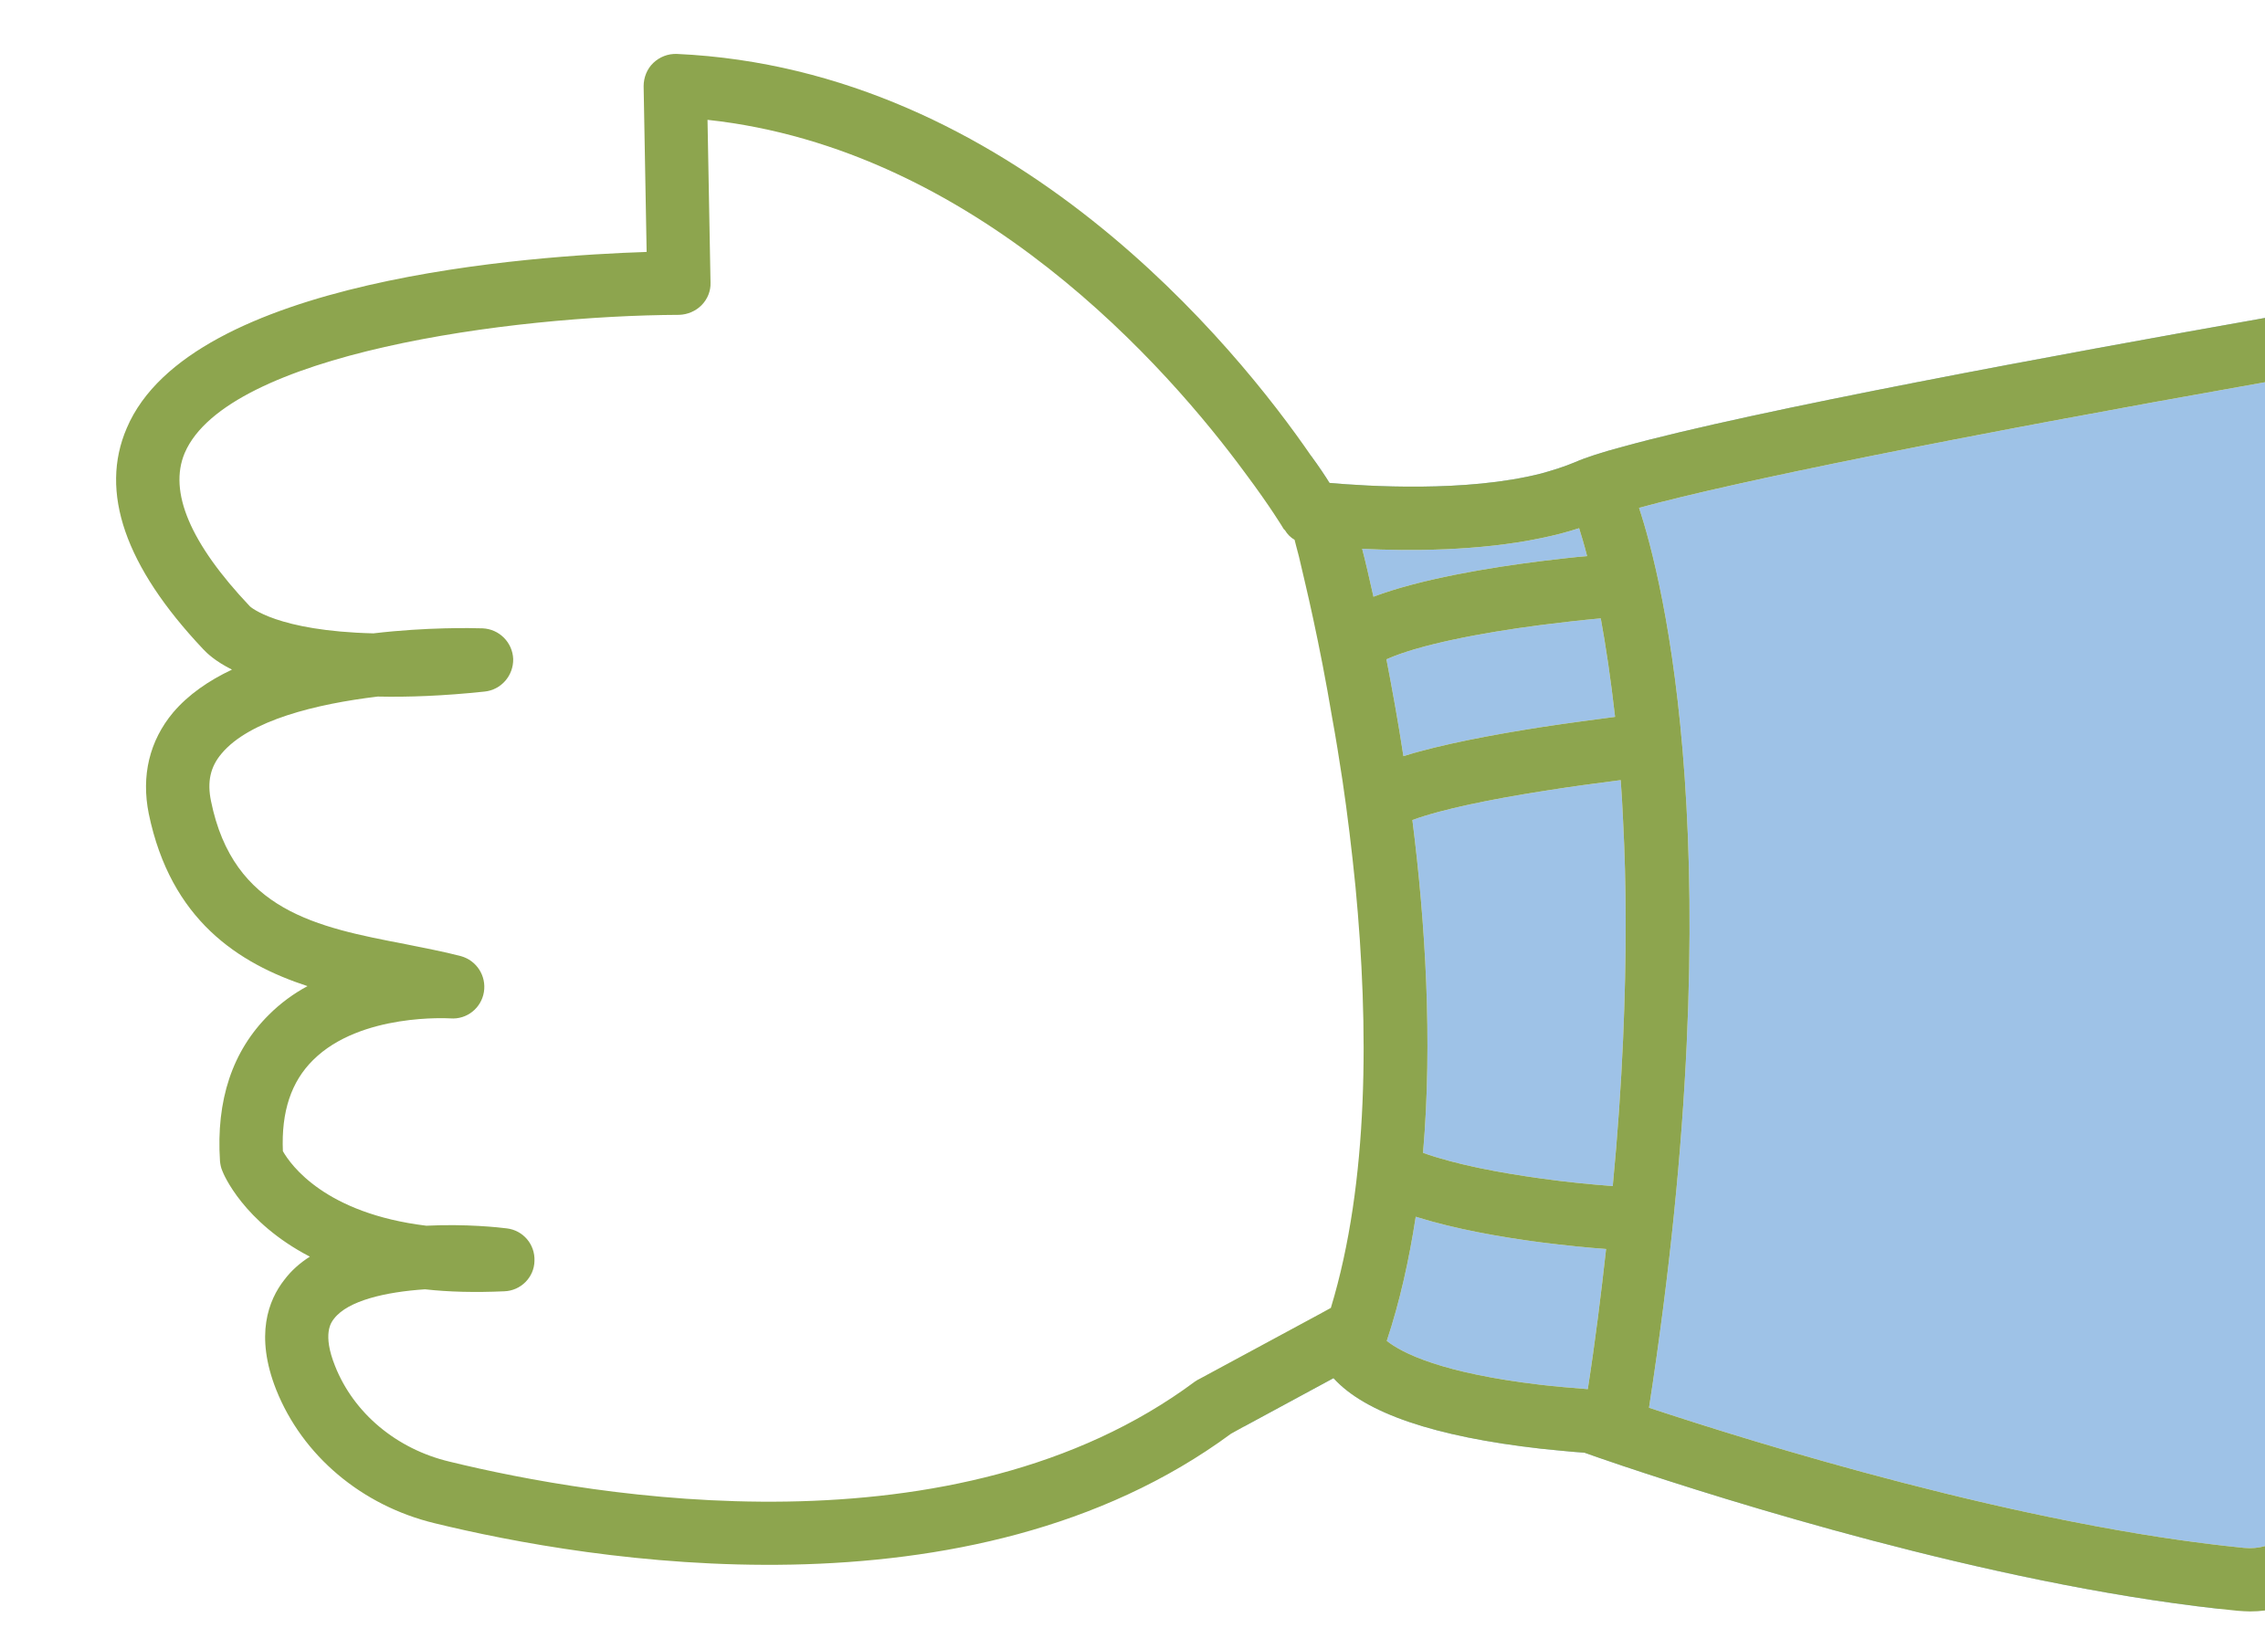
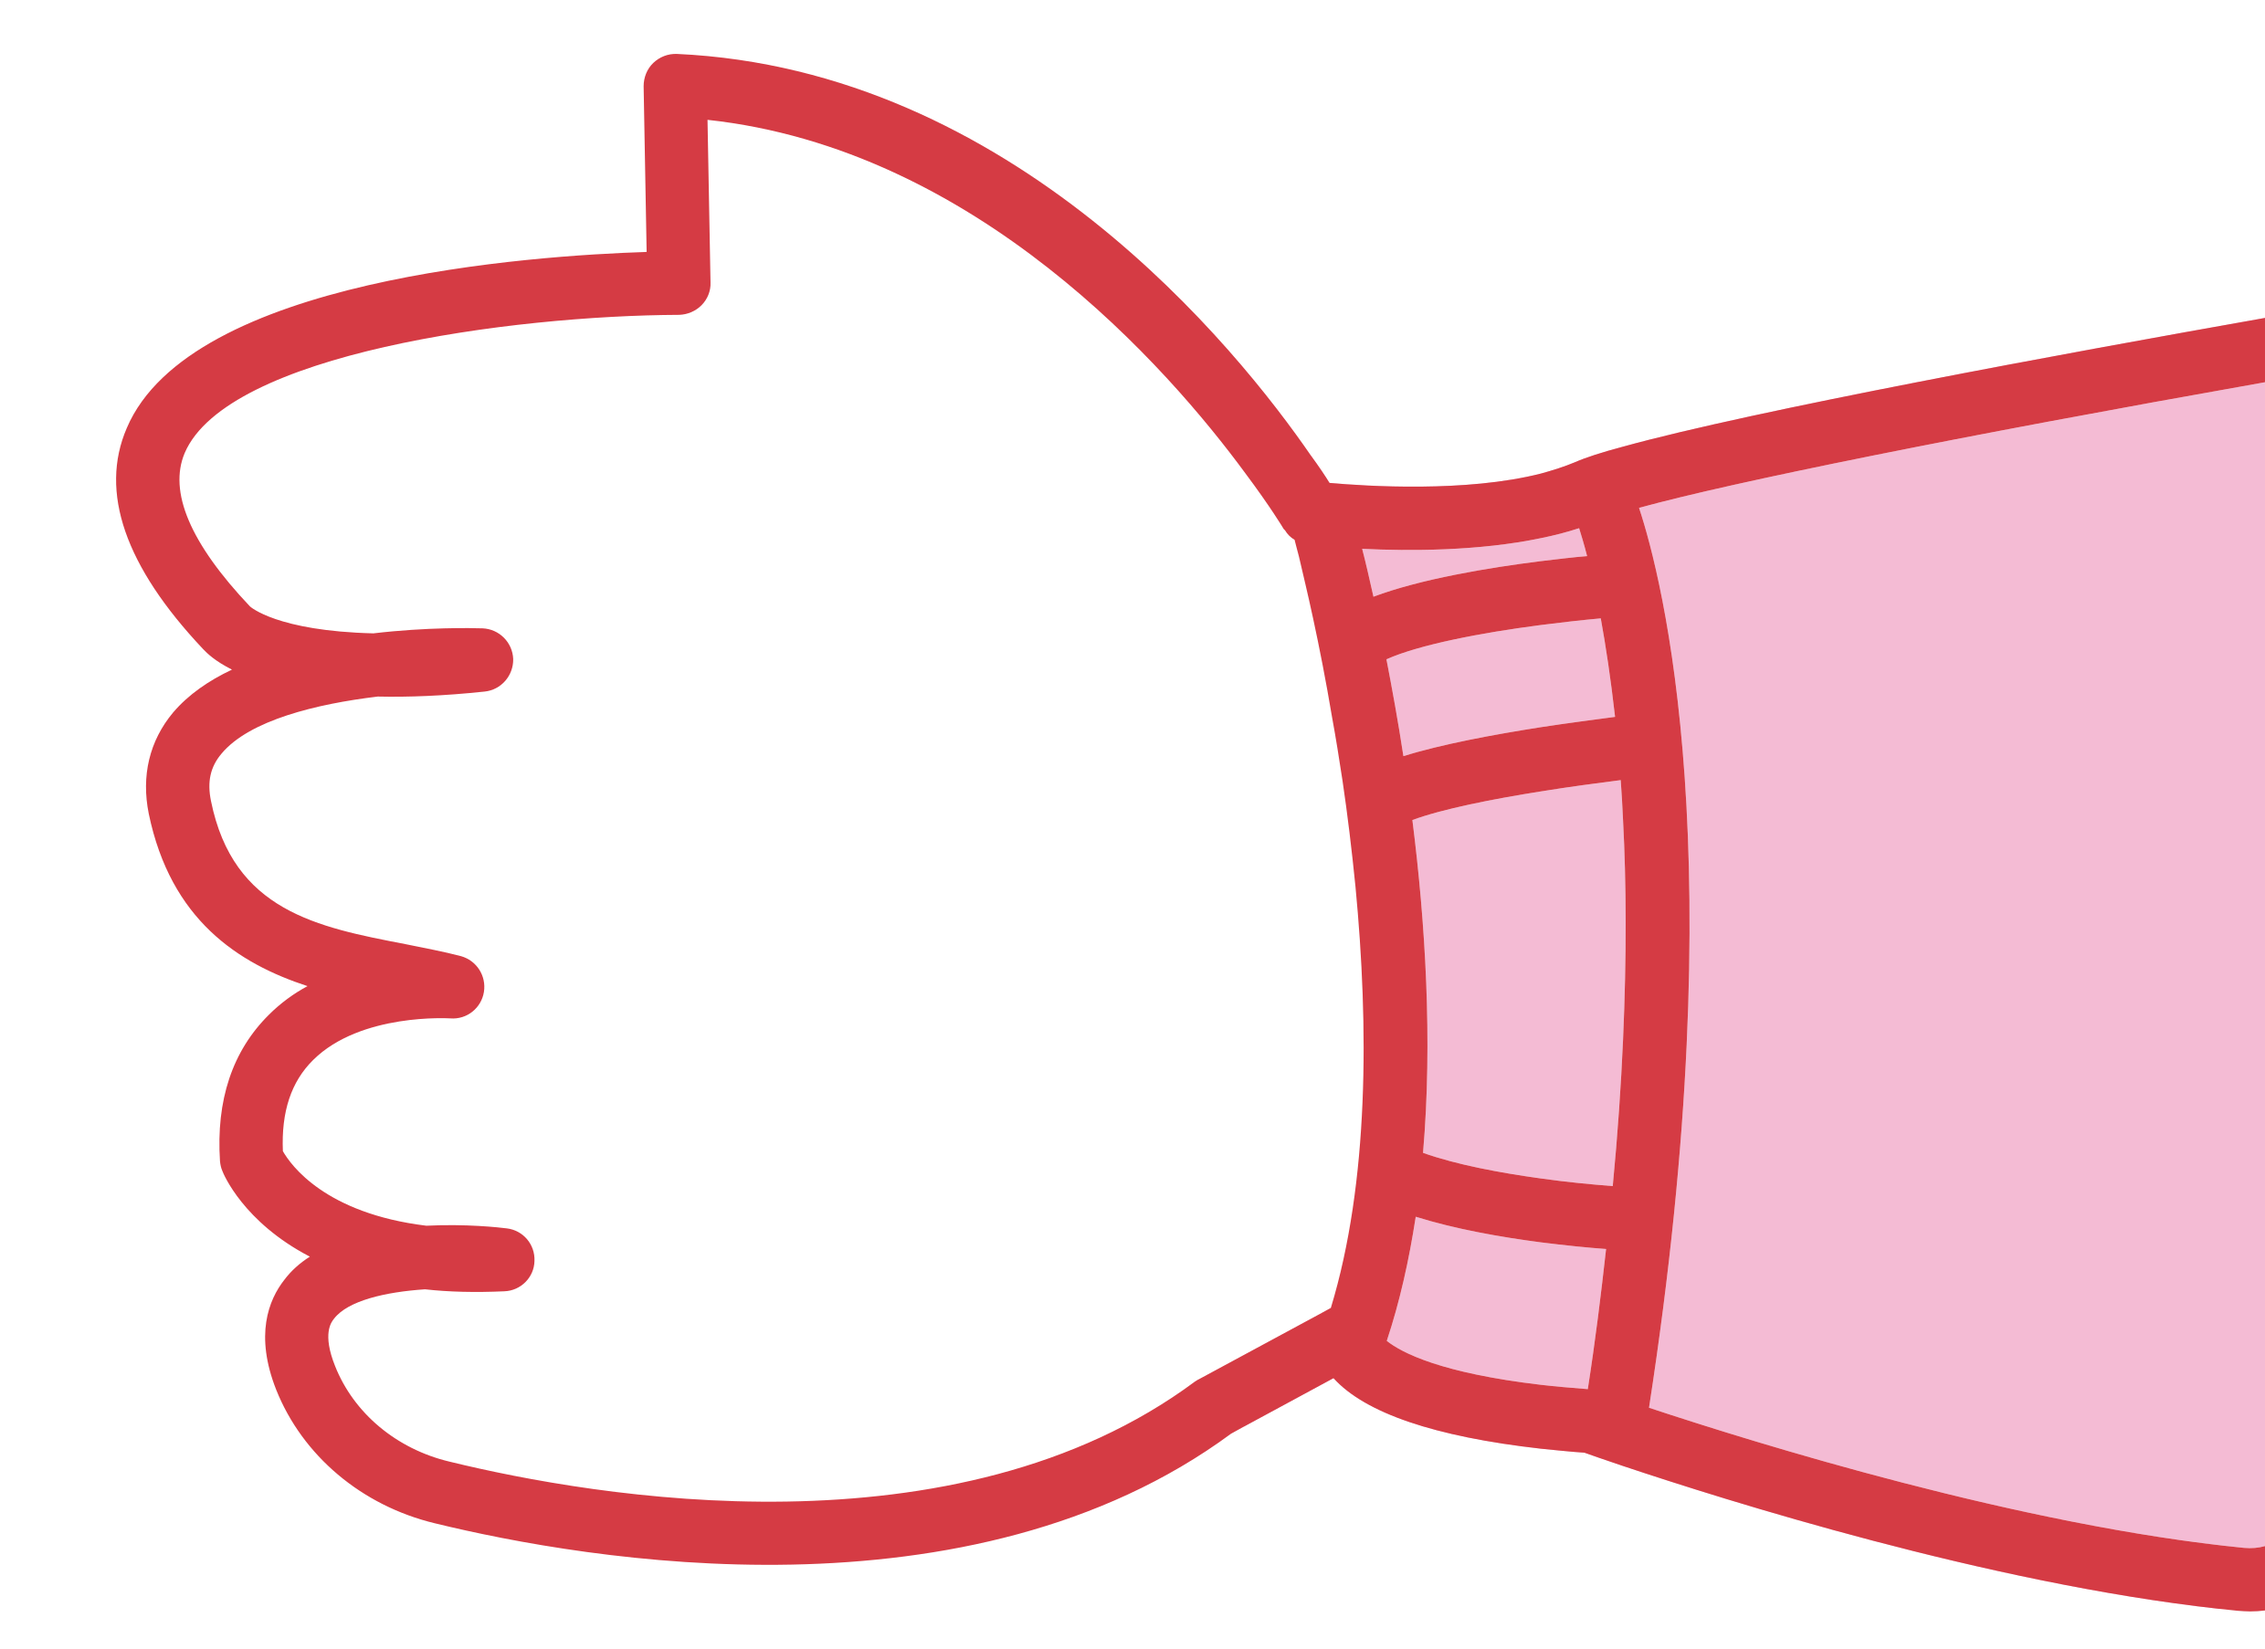
added actual information, replaced handle image

diff --git a/index.html b/index.html
@@ -9,21 +9,21 @@
 <body>
   <div class="row">
     <img class="hand left" src="res/handle.png" alt="" />
-    <a class="card" href="https://t.me/Arishik01" target="_blank" rel="noopener">
+    <a class="card" href="https://t.me/darra7" target="_blank" rel="noopener">
       <span>Telegram</span>
     </a>
   </div>
 
   <div class="row">
     <img class="hand right" src="res/handle.png" alt="" />
-    <a class="card" href="https://t.me/Arishik01" target="_blank" rel="noopener">
+    <a class="card" href="https://max.ru/u/f9LHodD0cOJRF5iUK6cGRgUVV0CK1GGO6ljk29IluiKN1Cbyp7Lm91CSQks" target="_blank" rel="noopener">
       <span>Max</span>
     </a>
   </div>
 
   <div class="row">
     <img class="hand left" src="res/handle.png" alt="" />
-    <a class="card" href="https://t.me/Arishik01" target="_blank" rel="noopener">
+    <a class="card" href="https://www.instagram.com/da.teacherr" target="_blank" rel="noopener">
       <span>Instagram</span>
     </a>
   </div>

diff --git a/styles.css b/styles.css
@@ -6,8 +6,8 @@
 }
 
 :root {
-  --orange: #f49928;
-  --green: #8ca348;
+  --orange: #7E3C3A;
+  --green: #D4323D;
   /* Width of a hand (fixed, so the overlap stays consistent everywhere). */
   --hand-width: 140px;
   /* How far the fist overlaps onto the card (so it looks like it holds it).
